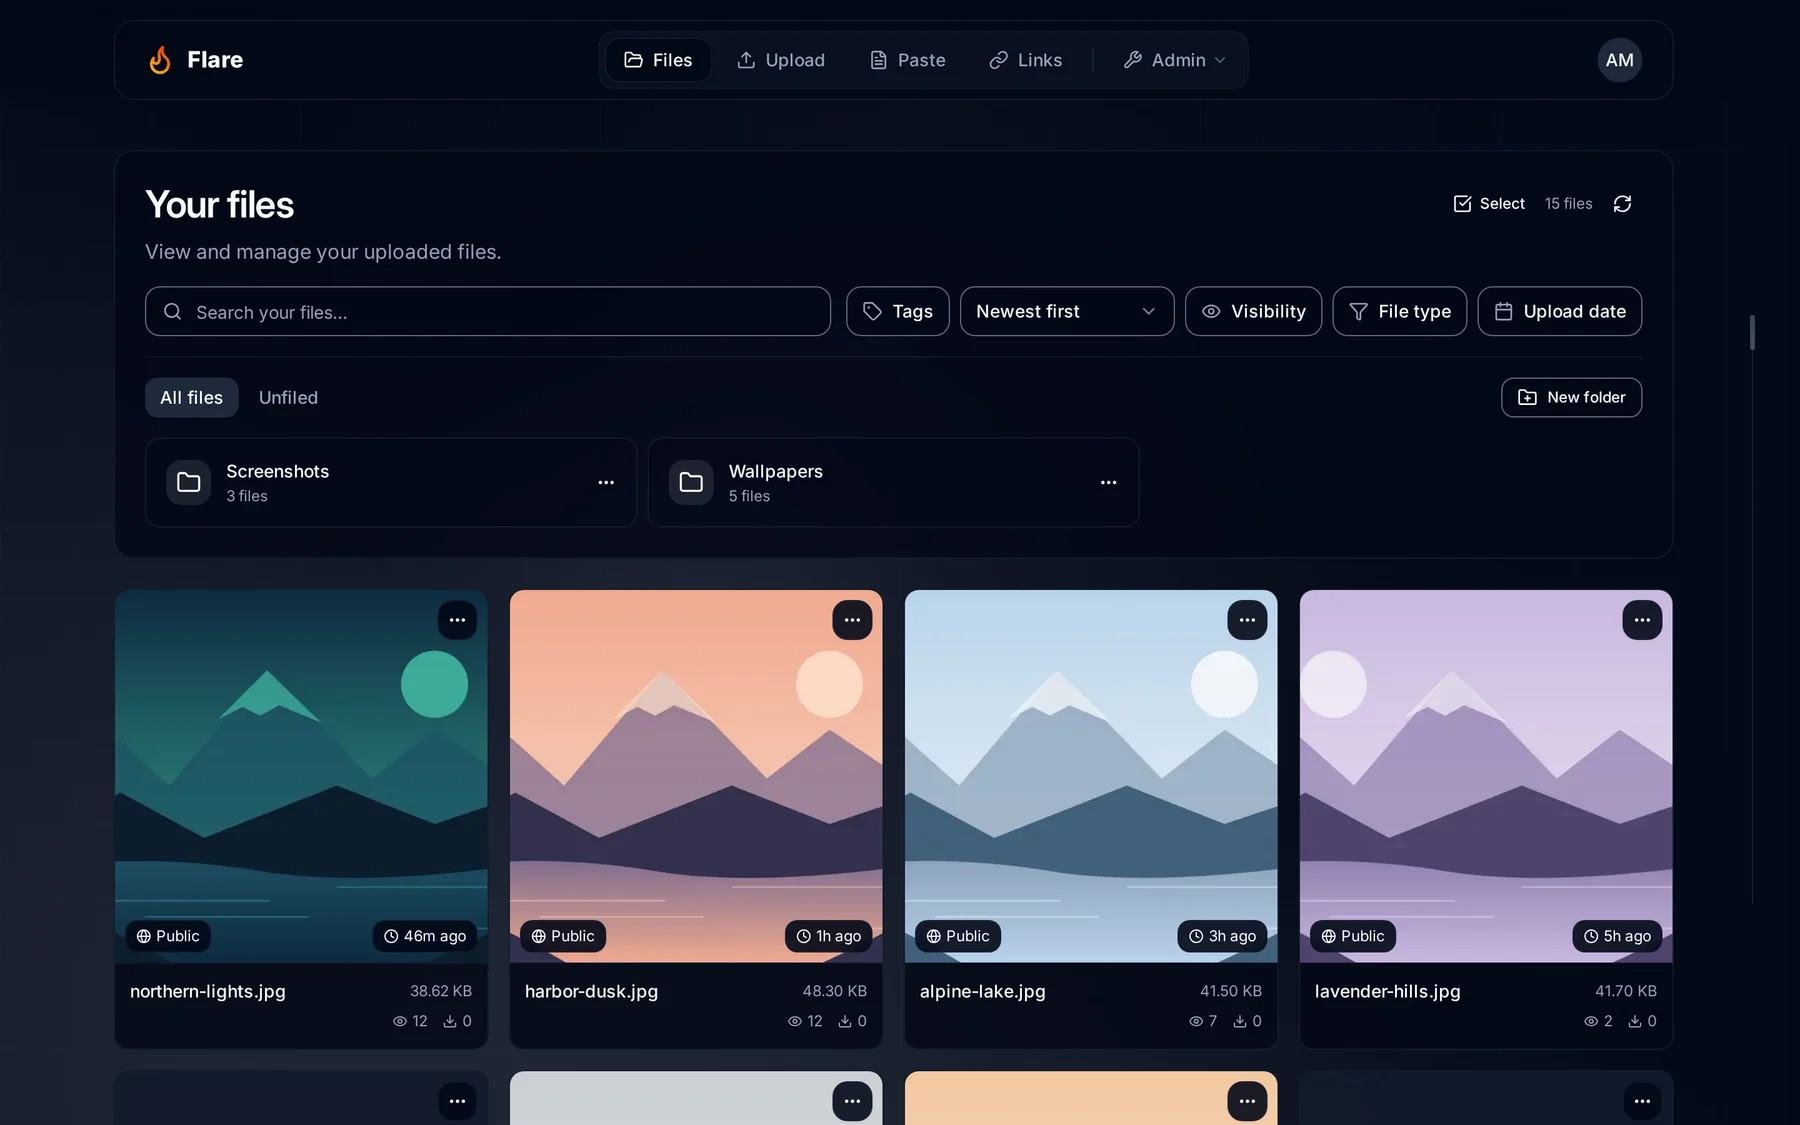
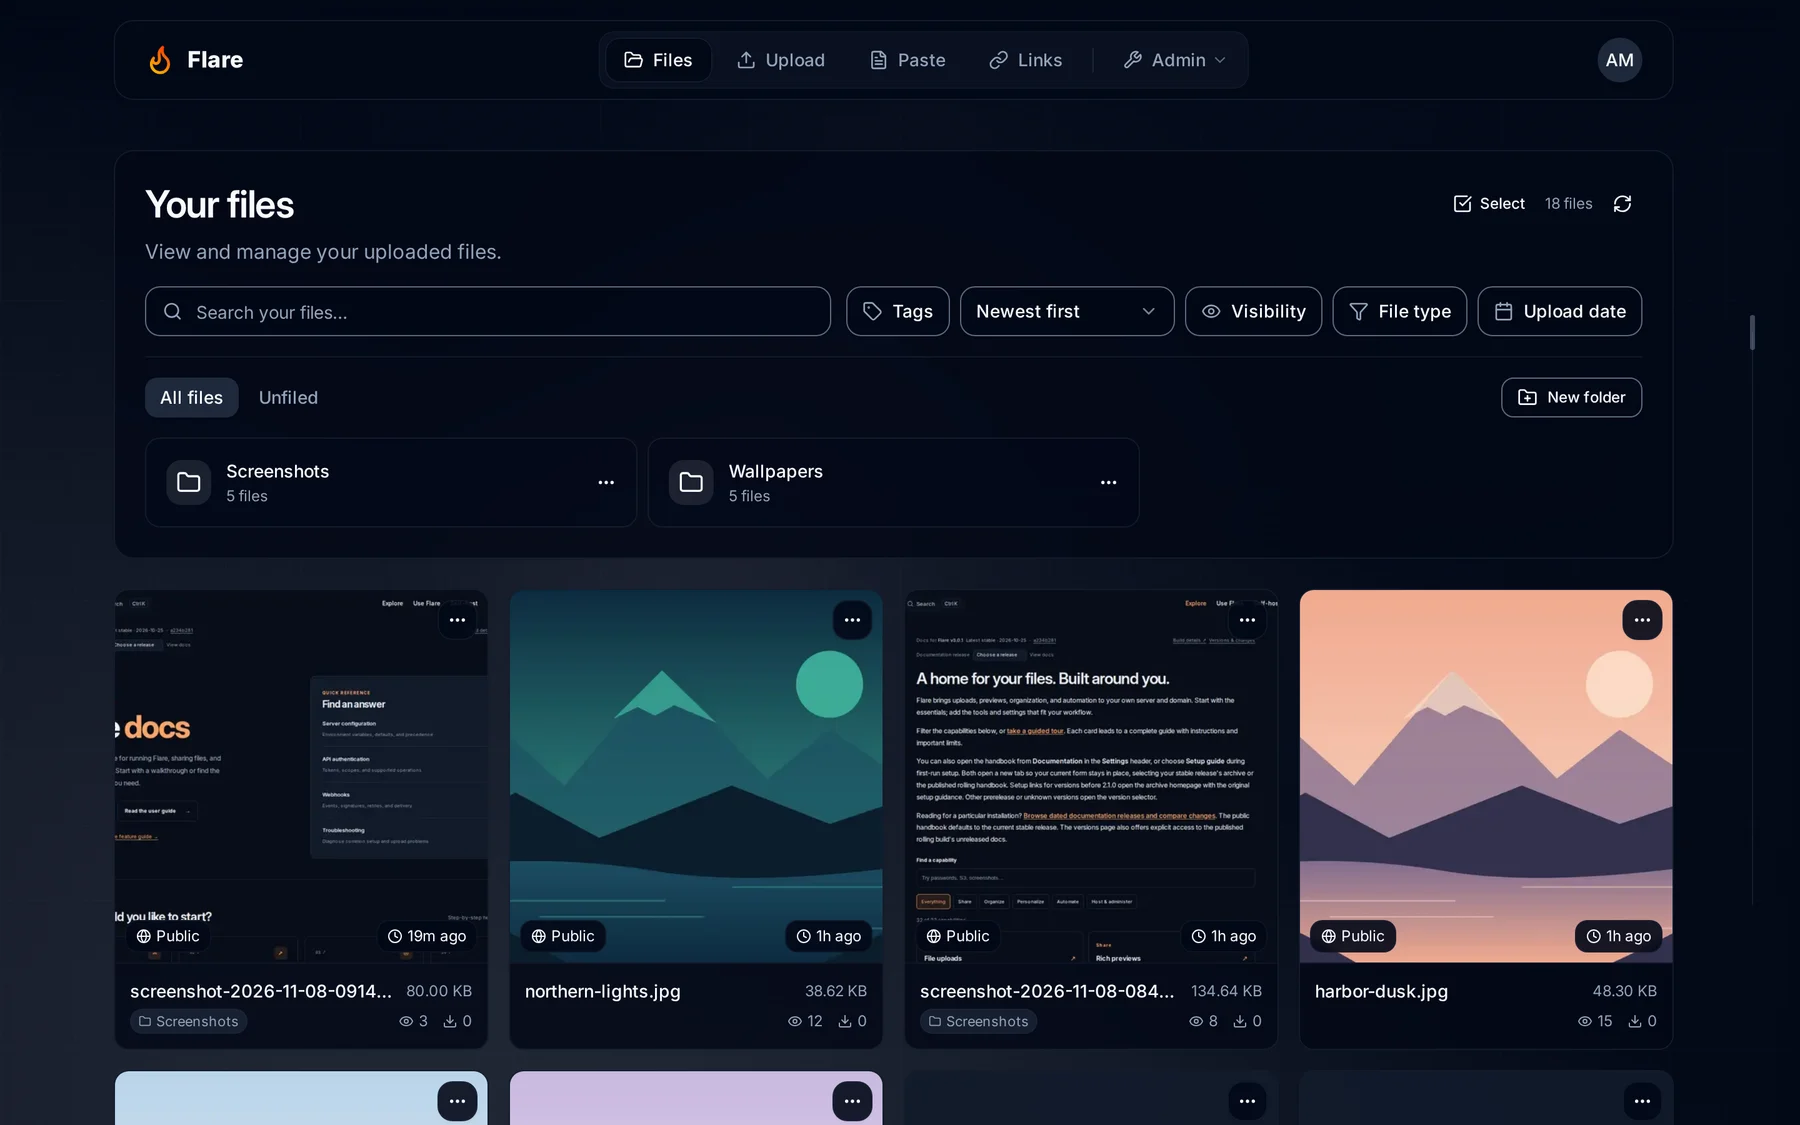
docs(readme): theme-aware demo and screens, sharper 2x recording, screenshot tools in the gallery

Changed region(s): [[0.0622, 0.4978, 0.9333, 1.0], [0.8711, 0.9022, 0.9022, 0.9333]]

diff --git a/README.md b/README.md
@@ -18,10 +18,13 @@ needs is PostgreSQL and a container host.
 
 <p align="center">
   <a href="https://flintsh.github.io/Flare/demos.html">
-    <img src="./.github/assets/readme/demo.webp" width="100%" alt="Recording of Flare: a screenshot is dropped onto the file library, uploads with a progress bar, its link is copied, and its share page opens." />
+    <picture>
+      <source media="(prefers-color-scheme: light)" srcset="./.github/assets/readme/demo-light.webp" />
+      <img src="./.github/assets/readme/demo-dark.webp" width="100%" alt="Recording of Flare: a screenshot is dropped onto the file library and uploads, the new file is opened, and Copy link on its share page confirms the link was copied." />
+    </picture>
   </a>
   <br />
-  <sub>Drop a file, copy the link, open it. Recorded in a real Flare instance with demo data.</sub>
+  <sub>Drop a file, open it, copy the link. Recorded in a real Flare instance with demo data.</sub>
 </p>
 
 ## What you get
@@ -135,27 +138,17 @@ then run `docker compose pull flare && docker compose up -d flare`.
 
 ## A closer look
 
-<table>
-  <tr>
-    <td colspan="2">
-      <picture>
-        <source media="(prefers-color-scheme: light)" srcset="./.github/assets/readme/library-light.webp" />
-        <img src="./.github/assets/readme/library-dark.webp" alt="Flare's file library with folders, filters and a grid of image previews" />
-      </picture>
-      <p align="center"><sub><b>Your library.</b> Search, filter and organize everything you upload.</sub></p>
-    </td>
-  </tr>
-  <tr>
-    <td width="50%">
-      <img src="./.github/assets/readme/share.webp" alt="A shared image page with Download, Copy link, Extract text and Open original buttons" />
-      <p align="center"><sub><b>Share pages.</b> What people see when they open your link.</sub></p>
-    </td>
-    <td width="50%">
-      <img src="./.github/assets/readme/code.webp" alt="A shared Python file, thumbnails.py, shown with line numbers, syntax highlighting and a Copy text button" />
-      <p align="center"><sub><b>Code and pastes.</b> Highlighted by file extension.</sub></p>
-    </td>
-  </tr>
-</table>
+<picture>
+  <source media="(prefers-color-scheme: light)" srcset="./.github/assets/readme/library-light.webp" />
+  <img src="./.github/assets/readme/library-dark.webp" alt="Flare's file library with folders, filters and a grid of screenshots and images" />
+</picture>
+<p align="center"><sub><b>Your library.</b> Search, filter and organize everything you upload.</sub></p>
+
+<picture>
+  <source media="(prefers-color-scheme: light)" srcset="./.github/assets/readme/screenshot-tools-light.webp" />
+  <img src="./.github/assets/readme/screenshot-tools-dark.webp" alt="The Screenshot tools and scripts card in Profile, with downloads for ShareX, iTake, Flameshot, Spectacle and a Bash uploader" />
+</picture>
+<p align="center"><sub><b>Screenshot tools.</b> Download a config or script with your instance and upload token filled in.</sub></p>
 
 More screens and recorded walkthroughs are in the [interactive demos](https://flintsh.github.io/Flare/demos.html).
 
